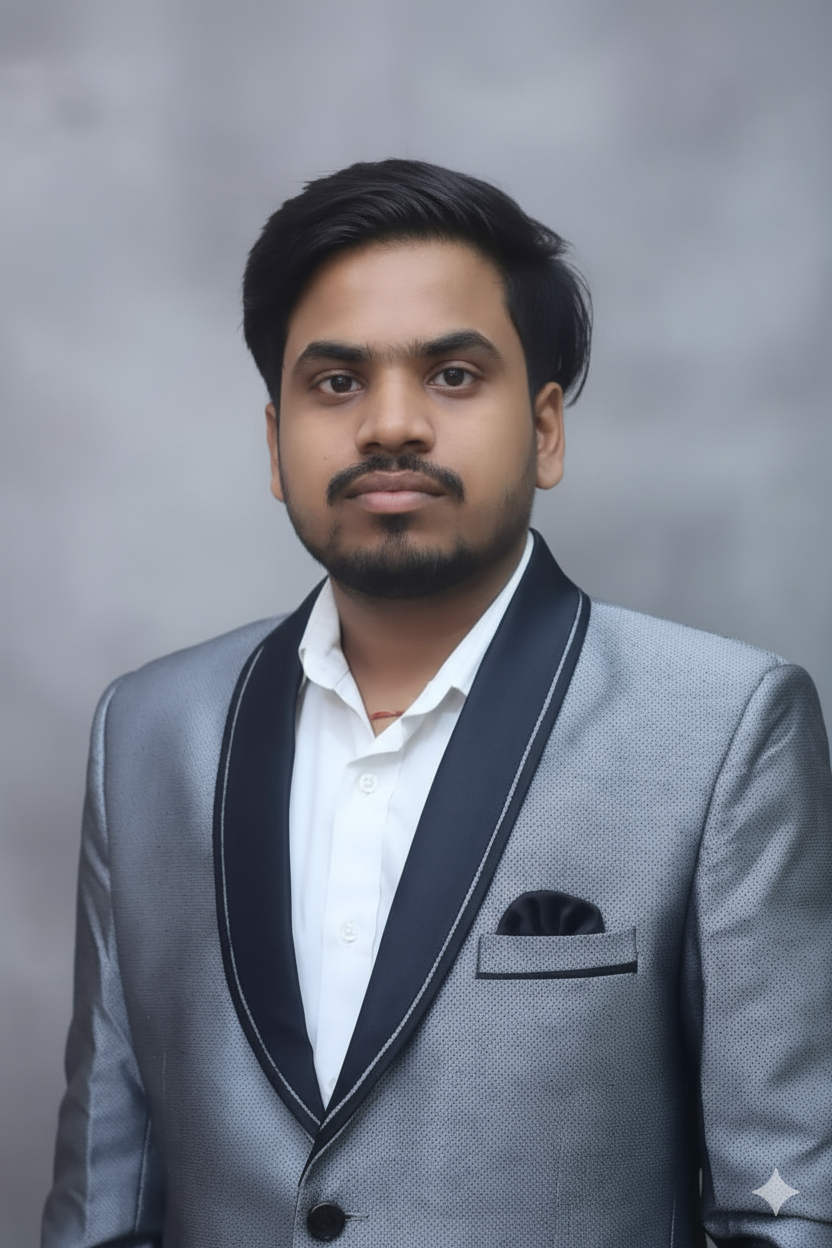
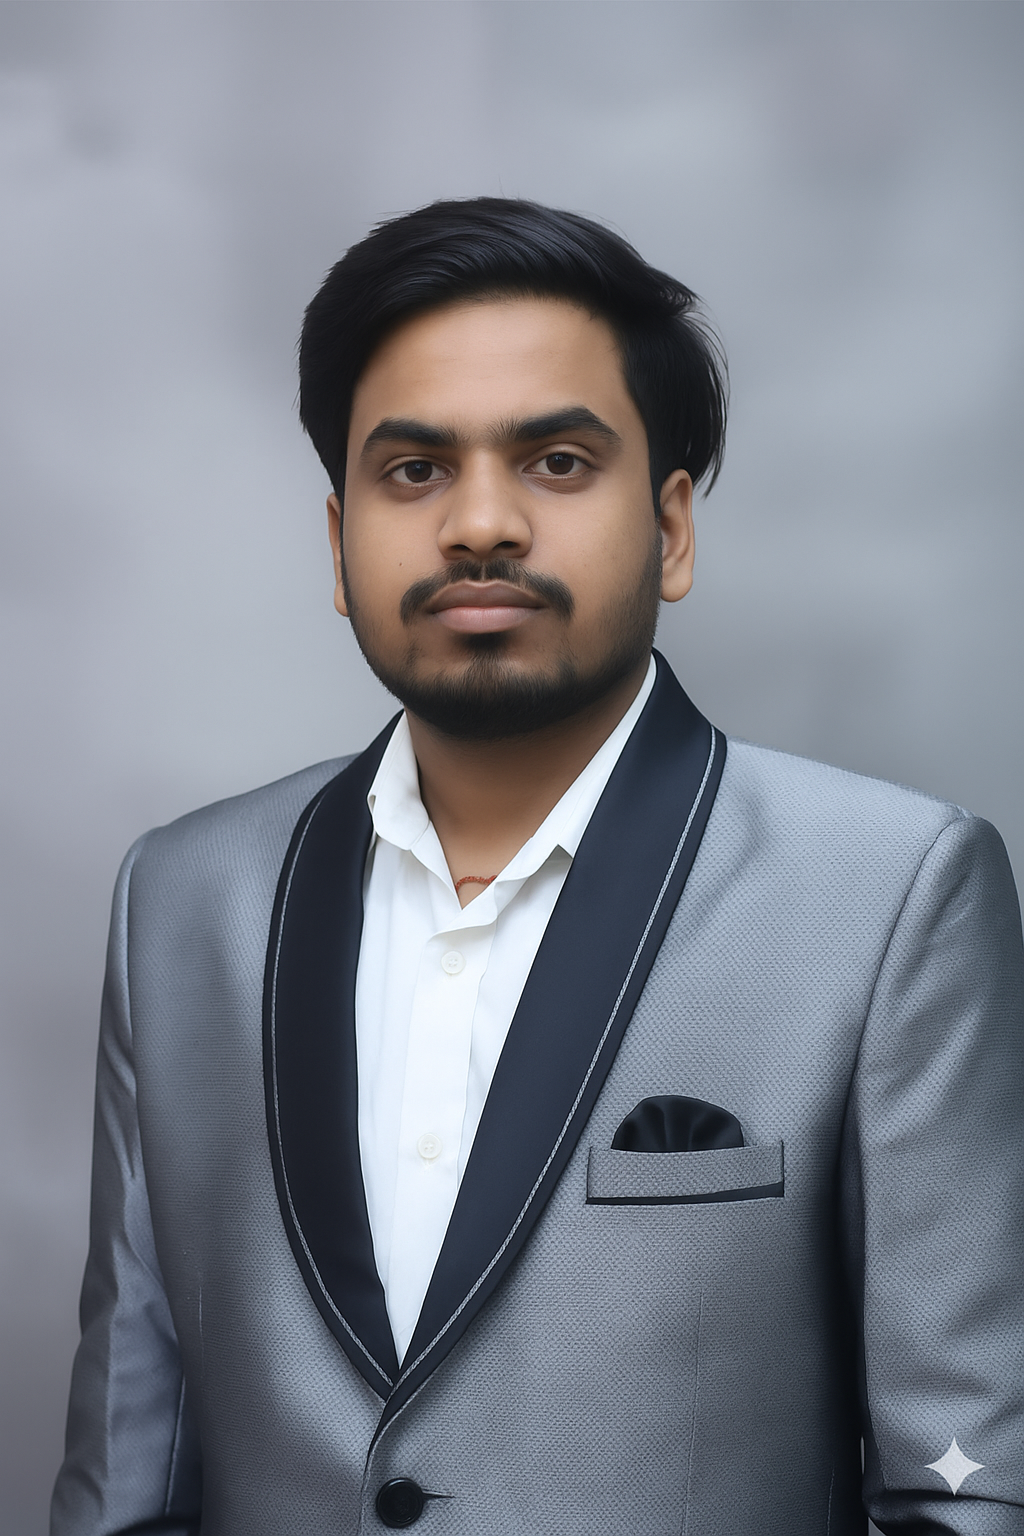
First commit

diff --git a/src/components/Hero.tsx b/src/components/Hero.tsx
@@ -49,7 +49,7 @@ const Hero = () => {
   Hello, I'm
 </h2>
 
-<h1 className="text-5xl font-bold text-white leading-tight">
+<h1 className="text-4xl font-bold text-white leading-tight">
   <span className="text-gradient">Tushar Kumar</span>
 </h1>
 
@@ -88,7 +88,7 @@ const Hero = () => {
                 </a>
               </Button>
 
-              <Button asChild size="lg" className="text-lg px-6 py-3 bg-gradient-primary text-black">
+              <Button asChild size="lg" className="text-lg px-6 py-3 bg-gradient-primary">
                 <a
                   href="https://drive.google.com/uc?export=download&id=1ulSOddlg0LxJtAz7mVvK964G5b1o2AyM"
                 >
@@ -100,13 +100,26 @@ const Hero = () => {
           </motion.div>
 
           {/* Profile Image */}
-          <motion.div initial={{ opacity: 0, x: 50 }} animate={{ opacity: 1, x: 0 }} className="flex justify-center">
-            <motion.div whileHover={{ scale: 1.05 }} className="relative w-96 h-96 rounded-full bg-gradient-primary p-1">
-              <div className="rounded-full bg-background p-2 w-full h-full">
-                <img src={profileImage} alt="tushar" className="rounded-full object-cover w-full h-full" />
-              </div>
-            </motion.div>
-          </motion.div>
+          <motion.div
+  initial={{ opacity: 0, x: 50 }}
+  animate={{ opacity: 1, x: 0 }}
+  className="flex justify-center"
+>
+  <motion.div
+    whileHover={{ scale: 1.05 }}
+    className="relative w-[420px] aspect-square rounded-full bg-gradient-primary p-1"
+  >
+    <div className="rounded-full overflow-hidden w-full h-full">
+      <img
+        src={profileImage}
+        alt="tushar"
+        className="w-full h-full object-cover object-top"
+      />
+      {/* If object-top crops too high, try:
+      className="w-full h-full object-cover object-[50%_20%]" */}
+    </div>
+  </motion.div>
+</motion.div>
         </div>
 
         {/* Mobile */}

diff --git a/src/components/Navbar.tsx b/src/components/Navbar.tsx
@@ -61,7 +61,7 @@ const Navbar = () => {
           {/* Logo */}
           <motion.div
             whileHover={{ scale: 1.05 }}
-            className="text-4xl font-bold text-gradient cursor-pointer"
+            className="text-xl font-bold text-gradient cursor-pointer"
             onClick={() => scrollToSection("home")}
           >
             Portfolio
@@ -102,7 +102,7 @@ const Navbar = () => {
             <ThemeToggle />
             <button
               onClick={() => setIsOpen(!isOpen)}
-              className="text-foreground hover:text-primary transition-colors"
+              className="text-white hover:text-primary transition-colors"
             >
               {isOpen ? <X size={24} /> : <Menu size={24} />}
             </button>
@@ -137,4 +137,4 @@ const Navbar = () => {
   );
 };
 
-export default Navbar;
+export default Navbar;
